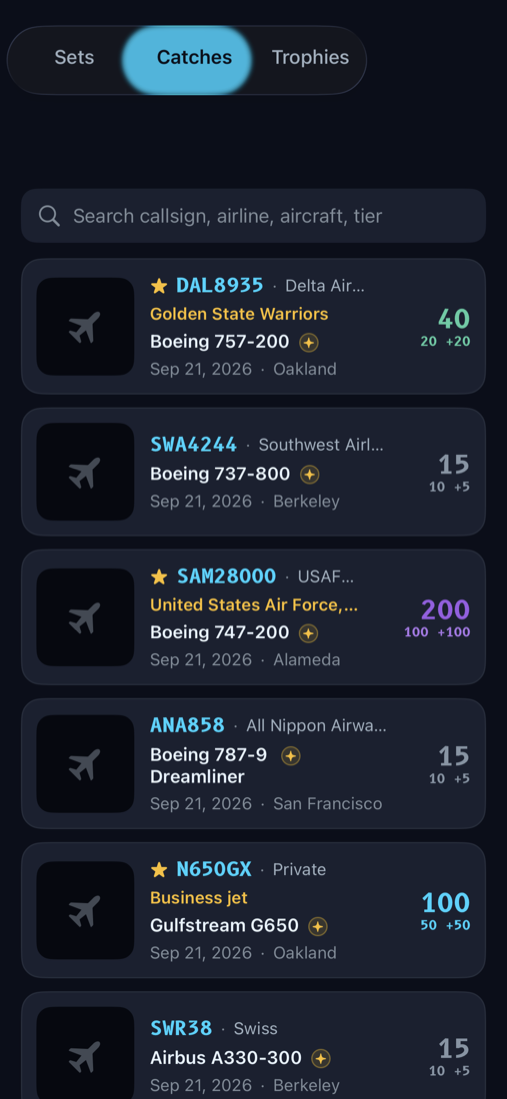
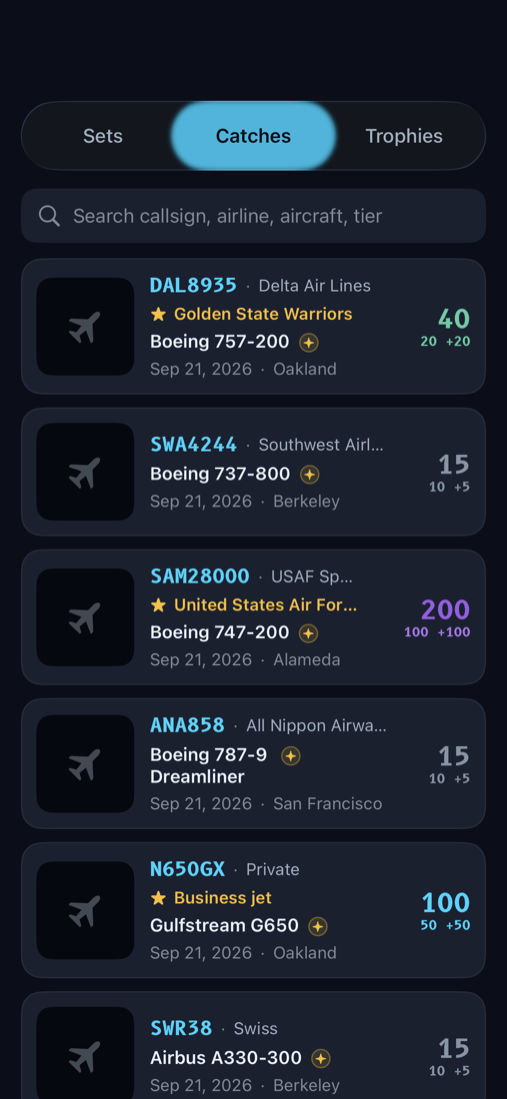
Hangar row: the notable star leads the gold name line (#441)
It sat before the callsign, which pushed a notable row's callsign out of
line with every other row. It now leads the gold name line.

diff --git a/ios/Tailspot/Tailspot/TailCardView.swift b/ios/Tailspot/Tailspot/TailCardView.swift
@@ -166,18 +166,7 @@ struct TailCard: View {
         let info = VStack(alignment: .leading, spacing: 5) {
             // Line 1 — cyan callsign · airline. The callsign is the lead
             // identifier (never truncated); a long airline tail-truncates.
-            // A notable airframe leads with a solid gold star, and gets a
-            // gold line of its own just below saying who it is (or its
-            // category). The star is solid and on this line; the
-            // first-of-type sparkle is ringed and on the model line, so
-            // a row carrying both shows two different marks.
             HStack(spacing: 6) {
-                if notable != nil {
-                    Image(systemName: "star.fill")
-                        .font(.system(size: 11, weight: .bold))
-                        .foregroundStyle(Brand.Color.ledgerGold)
-                        .fixedSize()
-                }
                 Text(tailNumber)
                     .font(Brand.Font.mono(size: 15, weight: .bold, relativeTo: .subheadline))
                     .foregroundStyle(Brand.Color.cyan)
@@ -195,12 +184,21 @@ struct TailCard: View {
             // Line 1 has no room for it beside the callsign and airline
             // ("Golden State Warriors" cut to "Golden..."), and a line of
             // its own also sets the few notable rows apart in the feed.
+            // The solid gold star leads that line (Noah, 2026-11-24), so
+            // the callsign column stays aligned with every other row. The
+            // first-of-type sparkle is ringed and on the model line, so a
+            // row carrying both shows two different marks.
             if let notable {
-                Text(notable.shortText)
-                    .font(.footnote.weight(.semibold))
-                    .foregroundStyle(Brand.Color.ledgerGold)
-                    .lineLimit(1)
-                    .truncationMode(.tail)
+                HStack(spacing: 5) {
+                    Image(systemName: "star.fill")
+                        .font(.system(size: 10, weight: .bold))
+                        .fixedSize()
+                    Text(notable.shortText)
+                        .font(.footnote.weight(.semibold))
+                        .lineLimit(1)
+                        .truncationMode(.tail)
+                }
+                .foregroundStyle(Brand.Color.ledgerGold)
             }
 
             // Line 2 — make/model as the card's HERO line (the reveal
